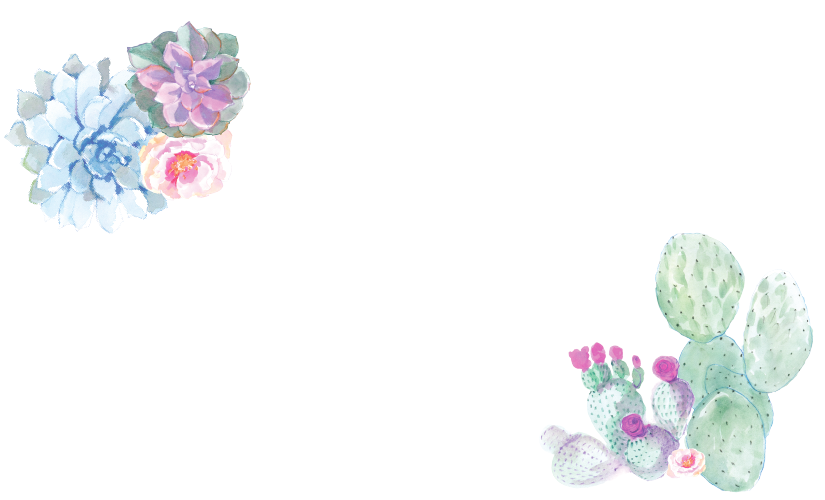
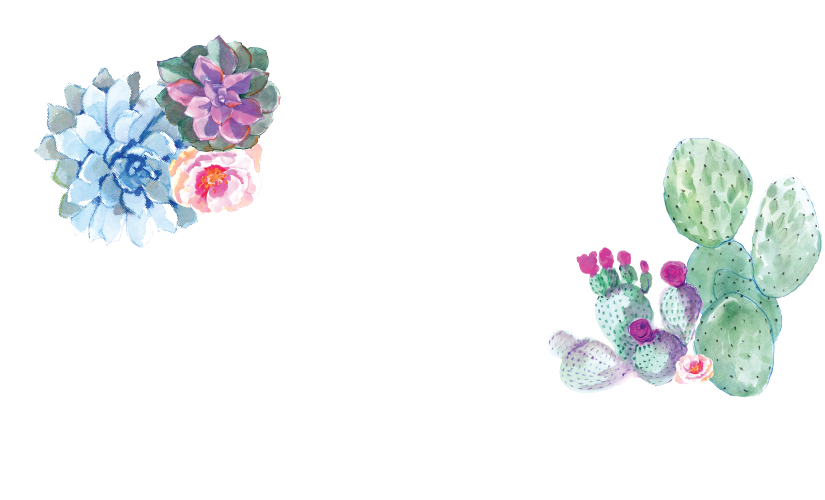
parallax fix, edits to footer html in all templates

Changed region(s): [[0.6667, 0.27, 1.0, 0.99], [0.0, 0.03, 0.3636, 0.51]]

diff --git a/aws/resources/public/index.html b/aws/resources/public/index.html
@@ -50,7 +50,7 @@ href="logo-favicon.png">
         </ul>
 
         <ul id="nav-mobile" class="light-tan side-nav">
-          <li><a href="index.html#home">Home</a></li>
+          <li><a href="index.html#index-banner">Home</a></li>
           <li><a href="index.html#travel">Travel</a></li>
           <li><a href="index.html#gifts">Gifts</a></li>
         </ul>
@@ -59,12 +59,12 @@ href="logo-favicon.png">
     </nav>
     <main>
 
-      <div id="index-banner" class="parallax-container valign-wrapper">
-        <div class="section no-pad-bot">
-          <div class="container" id="home">
+      <section id="index-banner" class="parallax-container valign-wrapper">
+        <div class="section no-pad-bot" id="home">
+          <div class="container">
             <br><br>
             <div class="row center">
-              <h2 class="header left col s12 thick">We are getting married!</h2>
+              <h2 class="header col s12 thick">We are getting married!</h2>
             </div>
 
             <br><br>
@@ -72,19 +72,23 @@ href="logo-favicon.png">
           </div>
         </div>
         <div class="parallax"><img src="images/hero-hats.jpg" alt="Jesse and Jenny"></div>
-      </div>
+      </section>
+      <section class="parallax-container valign-wrapper"> 
+        <div class="section">
+          <div class="container gray-text">
+            <div class="row center-align">
+              <div class="col s12 m8 push-m2">
+                <h3>Jenny<span class="hide-on-small-only"> Rosenberger</span></h3>
+                <h5>AND</h5>
+                <h3>Jesse<span class="hide-on-small-only"> Kelly</span></h3>
+                            <br><br>
 
-      <div class="cacti-background"> 
-        <div class="section container transparent">
-          <div class="row center-align">
-            <div class="col s12 m8 push-m2">
-              <h3>Jenny<span class="hide-on-small-only"> Rosenberger</span></h3>
-              <h5>AND</h5>
-              <h3>Jesse<span class="hide-on-small-only"> Kelly</span></h3>
+              </div>
             </div>
           </div>
         </div>
-      </div>
+        <div class="parallax"><img src="images/backdrop-2.png" alt=""></div>
+      </section>
       <!-- End Name section -->
 
       <div class="taupe">
@@ -145,8 +149,8 @@ href="logo-favicon.png">
           <div class="parallax"><img src="images/deck.jpg" alt="the county line"></div>
         </div>
 
-        <section class="light-tan"> <!-- Begin Travel Section -->
-          <div class="section container" id="travel">
+        <section class="light-tan" id="travel"> <!-- Begin Travel Section -->
+          <div class="section container">
 
             <div class="row">
               <div class="col s12 l8 left-align">
@@ -211,7 +215,7 @@ href="logo-favicon.png">
 
           <div class="footer-copyright">
             <div class="container">
-              <i class="material-icons">favorite</i>Created by the Flying Js
+             <p>Created by the Flying Js</p>
             </div>
           </div>
         </footer>

diff --git a/aws/resources/public/css/template-style.css b/aws/resources/public/css/template-style.css
@@ -35,6 +35,9 @@ main {
   background-color: #fff;
   color: #454545;
 }
+.section .gray-text {
+  color: #454545 !important;
+}
 section a {
   color: inherit;
   border-bottom: thin solid
@@ -72,7 +75,7 @@ section a {
 .parallax-container .section {
     width: 100%;
 }
-.cacti-background {
+/*.cacti-background {
   background: url('../images/backdrop-2.png') no-repeat 50% 0 fixed;
   background-size: contain;
   -moz-background-size: contain;
@@ -80,7 +83,7 @@ section a {
   -webkit-background-size: contain;
   width: 100%;
   color: #454545;
-}
+}*/
 
 .icon-block {
   padding: 0 15px;
@@ -96,6 +99,7 @@ footer.page-footer {
 }
 .page-footer .footer-copyright {
   background-color: #b784a7;
+  text-align: center;
 }
 
 /* RSVP Form Styles **************/
@@ -105,12 +109,12 @@ form label {
 
 /* Media Queries *****************/
 @media only screen and (max-width : 992px) {
-  .parallax-container .section {
+  .parallax-container .section.gray-text {
     position: absolute;
-    top: 40%;
+    top: 20%;
   }
   #index-banner .section {
-    top: 10%;
+    top: 15%;
   }
 }
 
@@ -120,7 +124,7 @@ form label {
   }
 }
 @media only screen and (min-width : 1400px) {
-  .parallax-container {
+  #index-banner.parallax-container {
   min-height: 500px;
   }
 

diff --git a/aws/resources/templates/invitation_template.html b/aws/resources/templates/invitation_template.html
@@ -76,22 +76,22 @@
     <footer class="page-footer taupe">
       <div class="footer-copyright">
         <div class="container">
-          <i class="material-icons">favorite</i>Created by the Flying Js
-        </div>
-      </div>
-    </footer>
+         <p>Created by the Flying Js</p>
+       </div>
+     </div>
+   </footer>
 
-    <script src="https://code.jquery.com/jquery-2.1.1.min.js"></script>
-    <script src="https://cdnjs.cloudflare.com/ajax/libs/materialize/0.100.2/js/materialize.min.js"></script>
-    <script>
-      (function($){
-        $(function(){
+ <script src="https://code.jquery.com/jquery-2.1.1.min.js"></script>
+ <script src="https://cdnjs.cloudflare.com/ajax/libs/materialize/0.100.2/js/materialize.min.js"></script>
+ <script>
+  (function($){
+    $(function(){
 
-          $('.button-collapse').sideNav({
-            closeOnClick:true,
-            draggable: true,
-          });
-          $('.parallax').parallax();
+      $('.button-collapse').sideNav({
+        closeOnClick:true,
+        draggable: true,
+      });
+      $('.parallax').parallax();
 
   }); // end of document ready
 })(jQuery); // end of jQuery name space

diff --git a/aws/resources/templates/thank_you_template.html b/aws/resources/templates/thank_you_template.html
@@ -84,10 +84,10 @@ href="logo-favicon.png">
         </div>
       </section>
     </main>
-    <footer class="page-footer taupe">
+    <footer class="page-footer light-tan">
       <div class="footer-copyright">
         <div class="container">
-          <i class="material-icons">favorite</i>Created by the Flying Js
+          <p>Created by the Flying Js</p>
         </div>
       </div>
     </footer>

diff --git a/aws/resources/templates/rsvp_template.html b/aws/resources/templates/rsvp_template.html
@@ -101,10 +101,10 @@ href="logo-favicon.png">
       </section> 
     </main>
 
-    <footer class="page-footer taupe">
+    <footer class="page-footer light-tan">
       <div class="footer-copyright">
         <div class="container">
-          <i class="material-icons">favorite</i>Created by the Flying Js
+          <p>Created by the Flying Js</p>
         </div>
       </div>
     </footer>

diff --git a/aws/resources/templates/rsvp_summary_template.html b/aws/resources/templates/rsvp_summary_template.html
@@ -89,10 +89,10 @@ href="logo-favicon.png">
       </section> 
     </main>
 
-    <footer class="page-footer taupe">
+    <footer class="page-footer light-tan">
       <div class="footer-copyright">
         <div class="container">
-          <i class="material-icons">favorite</i>Created by the Flying Js
+          <p>Created by the Flying Js</p>
         </div>
       </div>
     </footer>

diff --git a/aws/resources/templates/rideshare_template.html b/aws/resources/templates/rideshare_template.html
@@ -108,7 +108,7 @@ href="logo-favicon.png">
     <footer class="page-footer light-tan">
       <div class="footer-copyright">
         <div class="container">
-          <i class="material-icons">favorite</i>Created by the Flying Js
+          <p>Created by the Flying Js</p>
         </div>
       </div>
     </footer>
